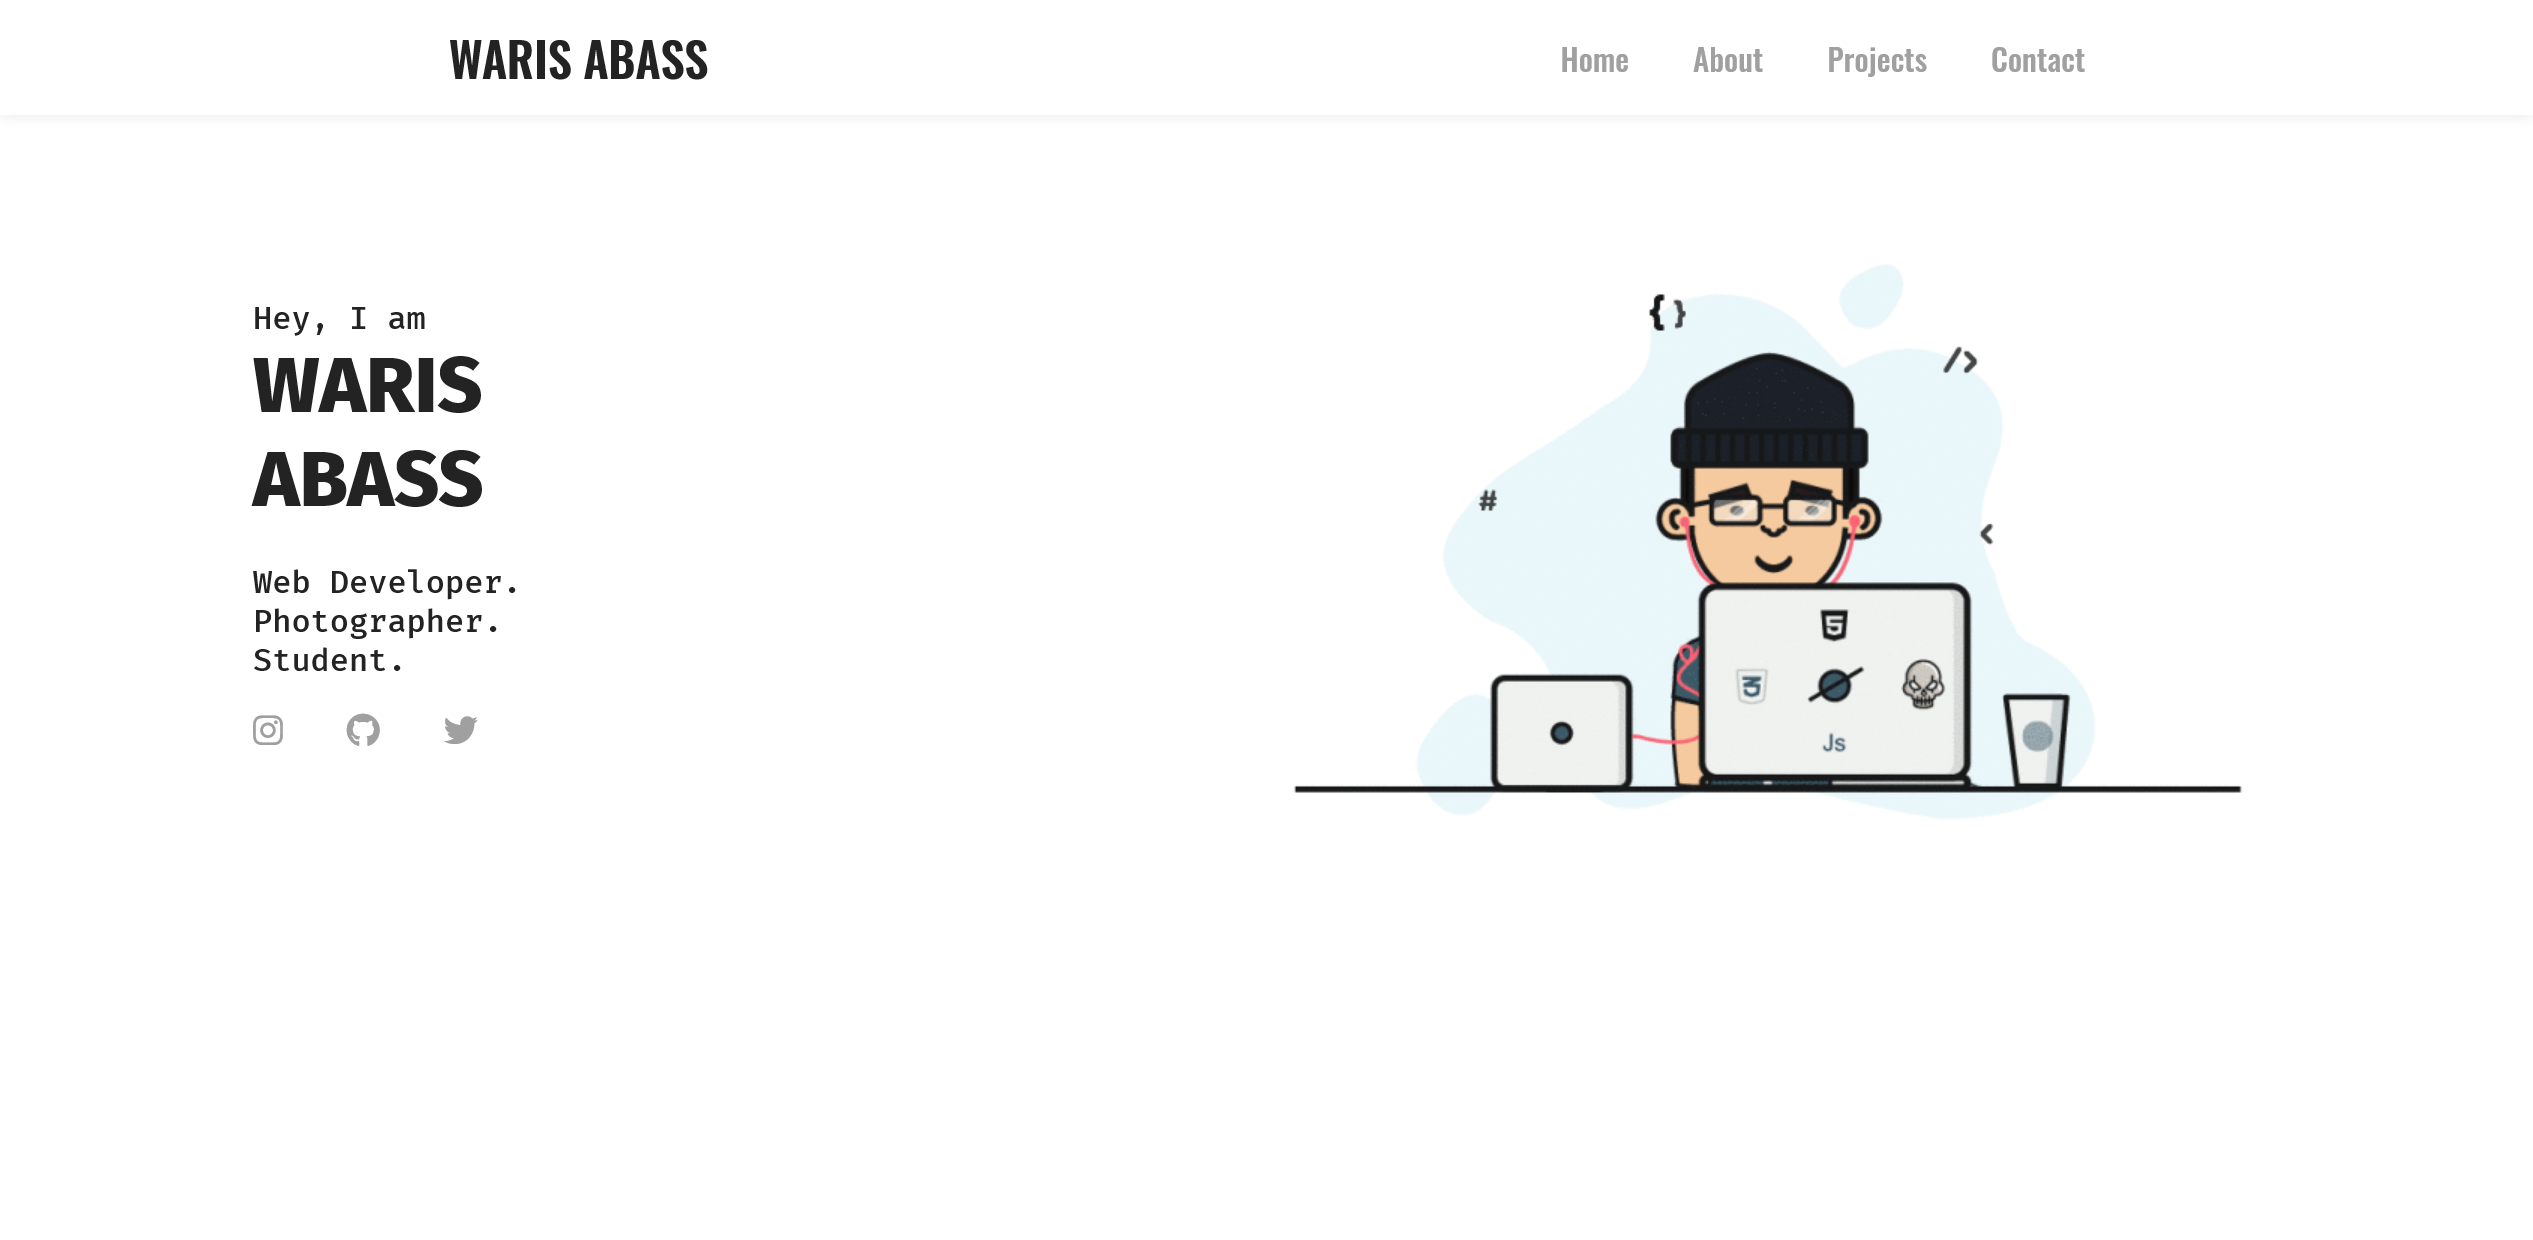
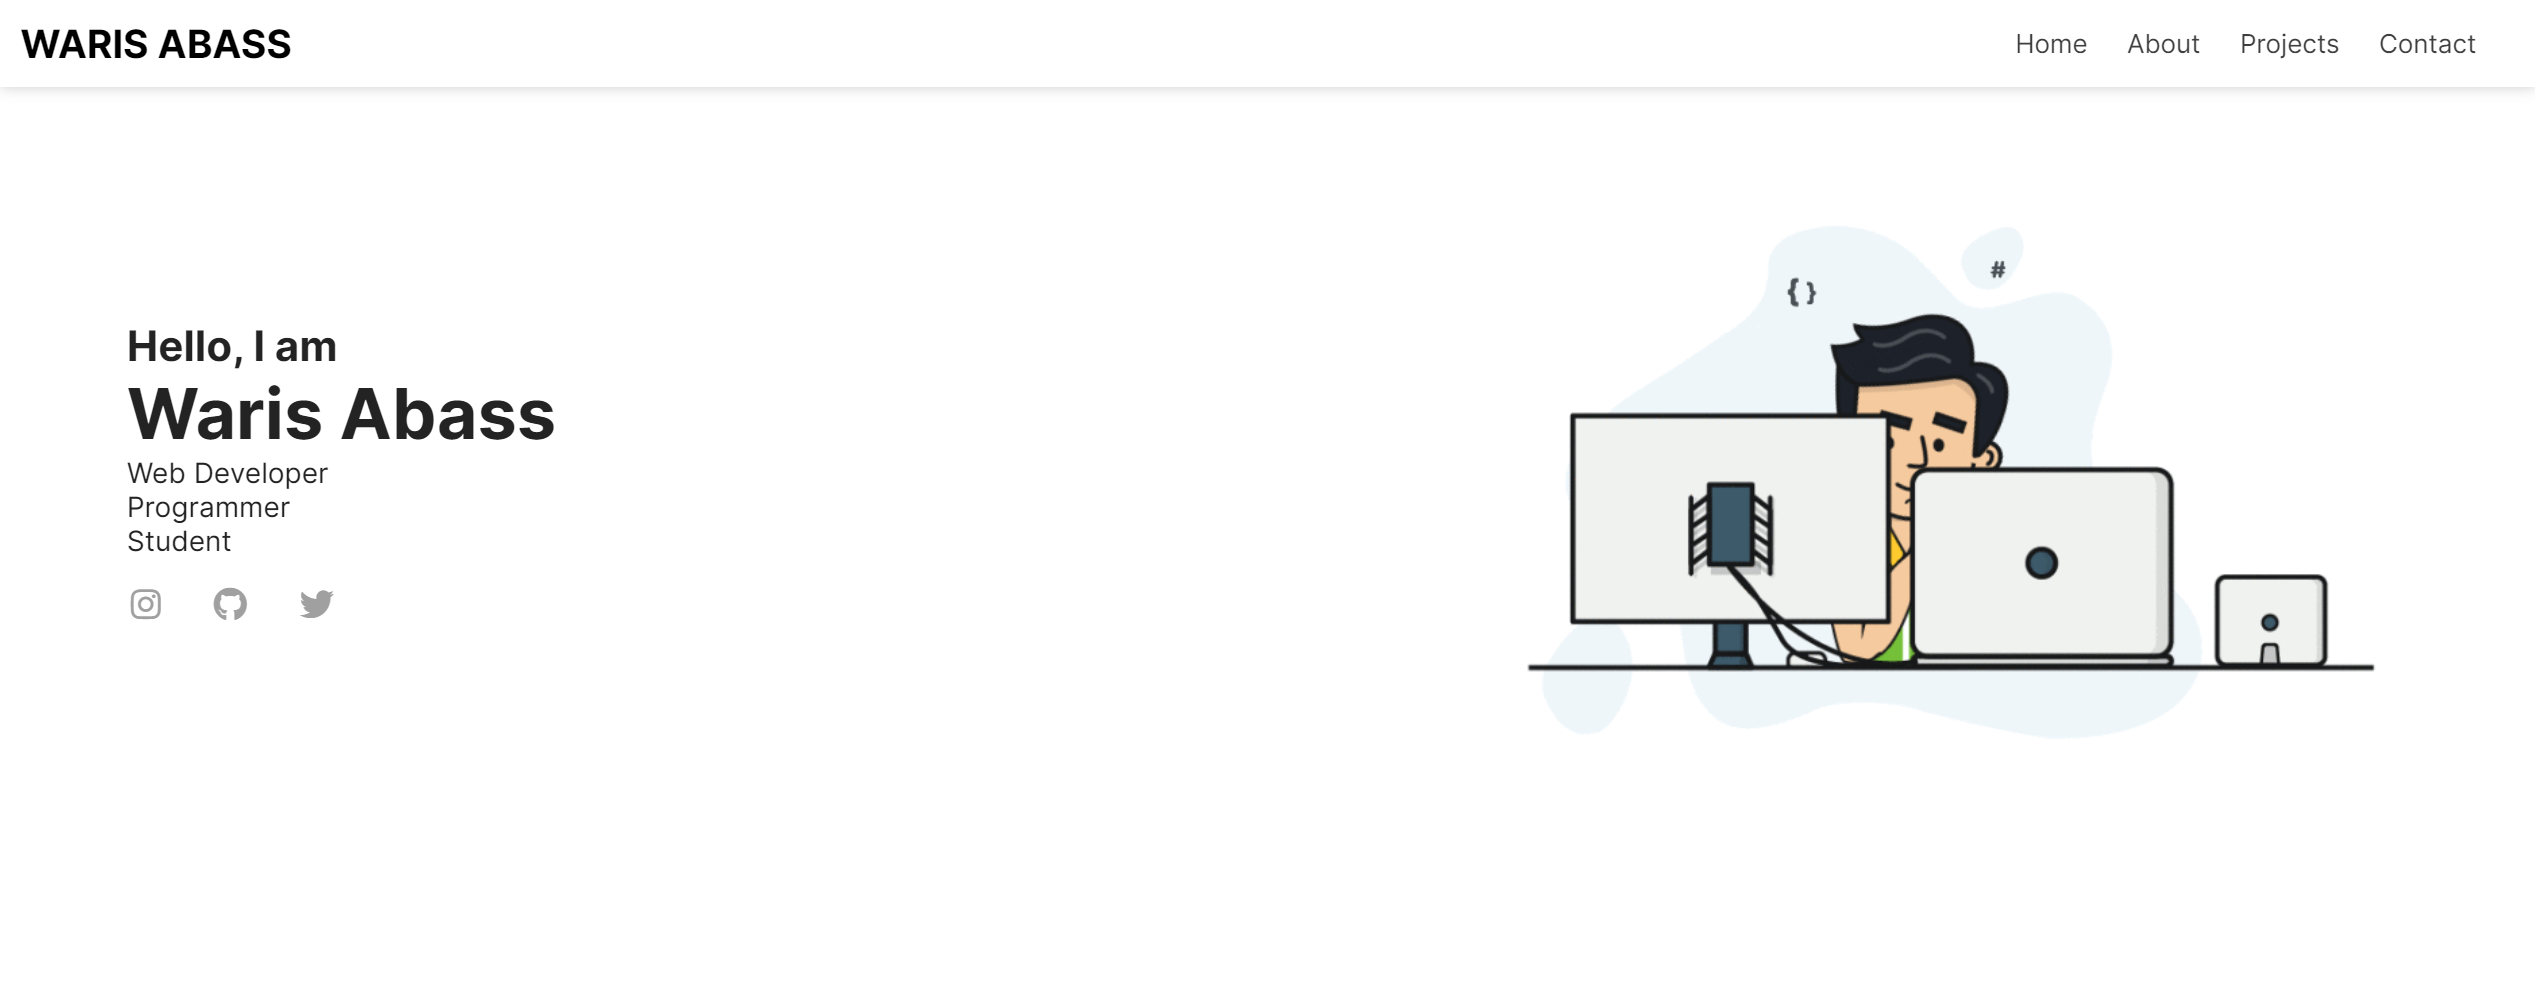
Finalized.

diff --git a/error_404.html b/error_404.html
@@ -1,0 +1,25 @@
+<!DOCTYPE html>
+<html lang="en">
+  <head>
+    <meta charset="UTF-8" />
+    <meta http-equiv="X-UA-Compatible" content="IE=edge" />
+    <meta name="viewport" content="width=device-width, initial-scale=1.0" />
+    <link rel="stylesheet" href="./css/fonts.css">
+    <link rel="stylesheet" href="./css/errorstyle.css">
+    <link rel="icon" type="image/x-icon" href="./img/favicon.ico">
+    <title>Page Not Found</title>
+  </head>
+  <body>
+    <div class="404container">
+      <h1>404</h1>
+      <h2>Ooops! The page does'nt exist.</h2>
+      <p>
+          The page you were looking for does not exist, either it is deleted or it does'nt exist.
+      </p>
+      <div class="actionbuttons">
+          <a href="./index.html">Go back to Home</a>
+          <a href="#">Report an Issue</a>
+      </div>
+    </div>
+  </body>
+</html>

diff --git a/css/fonts.css b/css/fonts.css
@@ -1,0 +1,9 @@
+/* Fira Code by Google Fonts */
+/* Including Font Weights:
+100; 200; 300; 400; 500; 600; 700; 800; 900 */
+@import url('https://fonts.googleapis.com/css2?family=Fira+Code:wght@300;400;500;600;700&family=Inter:wght@100;200;300;400;500;600;700;800;900&display=swap');
+
+/* Inter by Google Fonts */
+/* Including Font Weights:
+400; 700; 800; 900 */
+@import url('https://fonts.googleapis.com/css2?family=Inter:wght@400;700;800;900&display=swap');

diff --git a/index.html b/index.html
@@ -18,7 +18,8 @@
 	<!--Favicon Link-->
 	<link rel="icon" type="image/x-icon" href="./img/favicon.ico">
 	<!-- Link CSS -->
-	<link rel="stylesheet" href="style.css">
+	<link rel="stylesheet" href="./css/style.css">
+	<link rel="stylesheet" href="./css/fonts.css">
 <!-- Google Analytics -->
 <!-- Global site tag (gtag.js) - Google Analytics -->
 <script async src="https://www.googletagmanager.com/gtag/js?id=G-L4LNW92H0M"></script>

diff --git a/css/style.css b/css/style.css
@@ -1,5 +1,4 @@
-@import url('https://fonts.googleapis.com/css2?family=Fira+Code:wght@300;400;500;600;700&family=Inter:wght@100;200;300;400;500;600;700;800;900&display=swap');
-@import url('https://fonts.googleapis.com/css2?family=Inter:wght@400;700;800;900&display=swap');
+
 * {
   margin: 0;
   padding: 0;

diff --git a/404.md b/404.md
@@ -1,0 +1,3 @@
+---
+permalink: /error_404.html
+---
